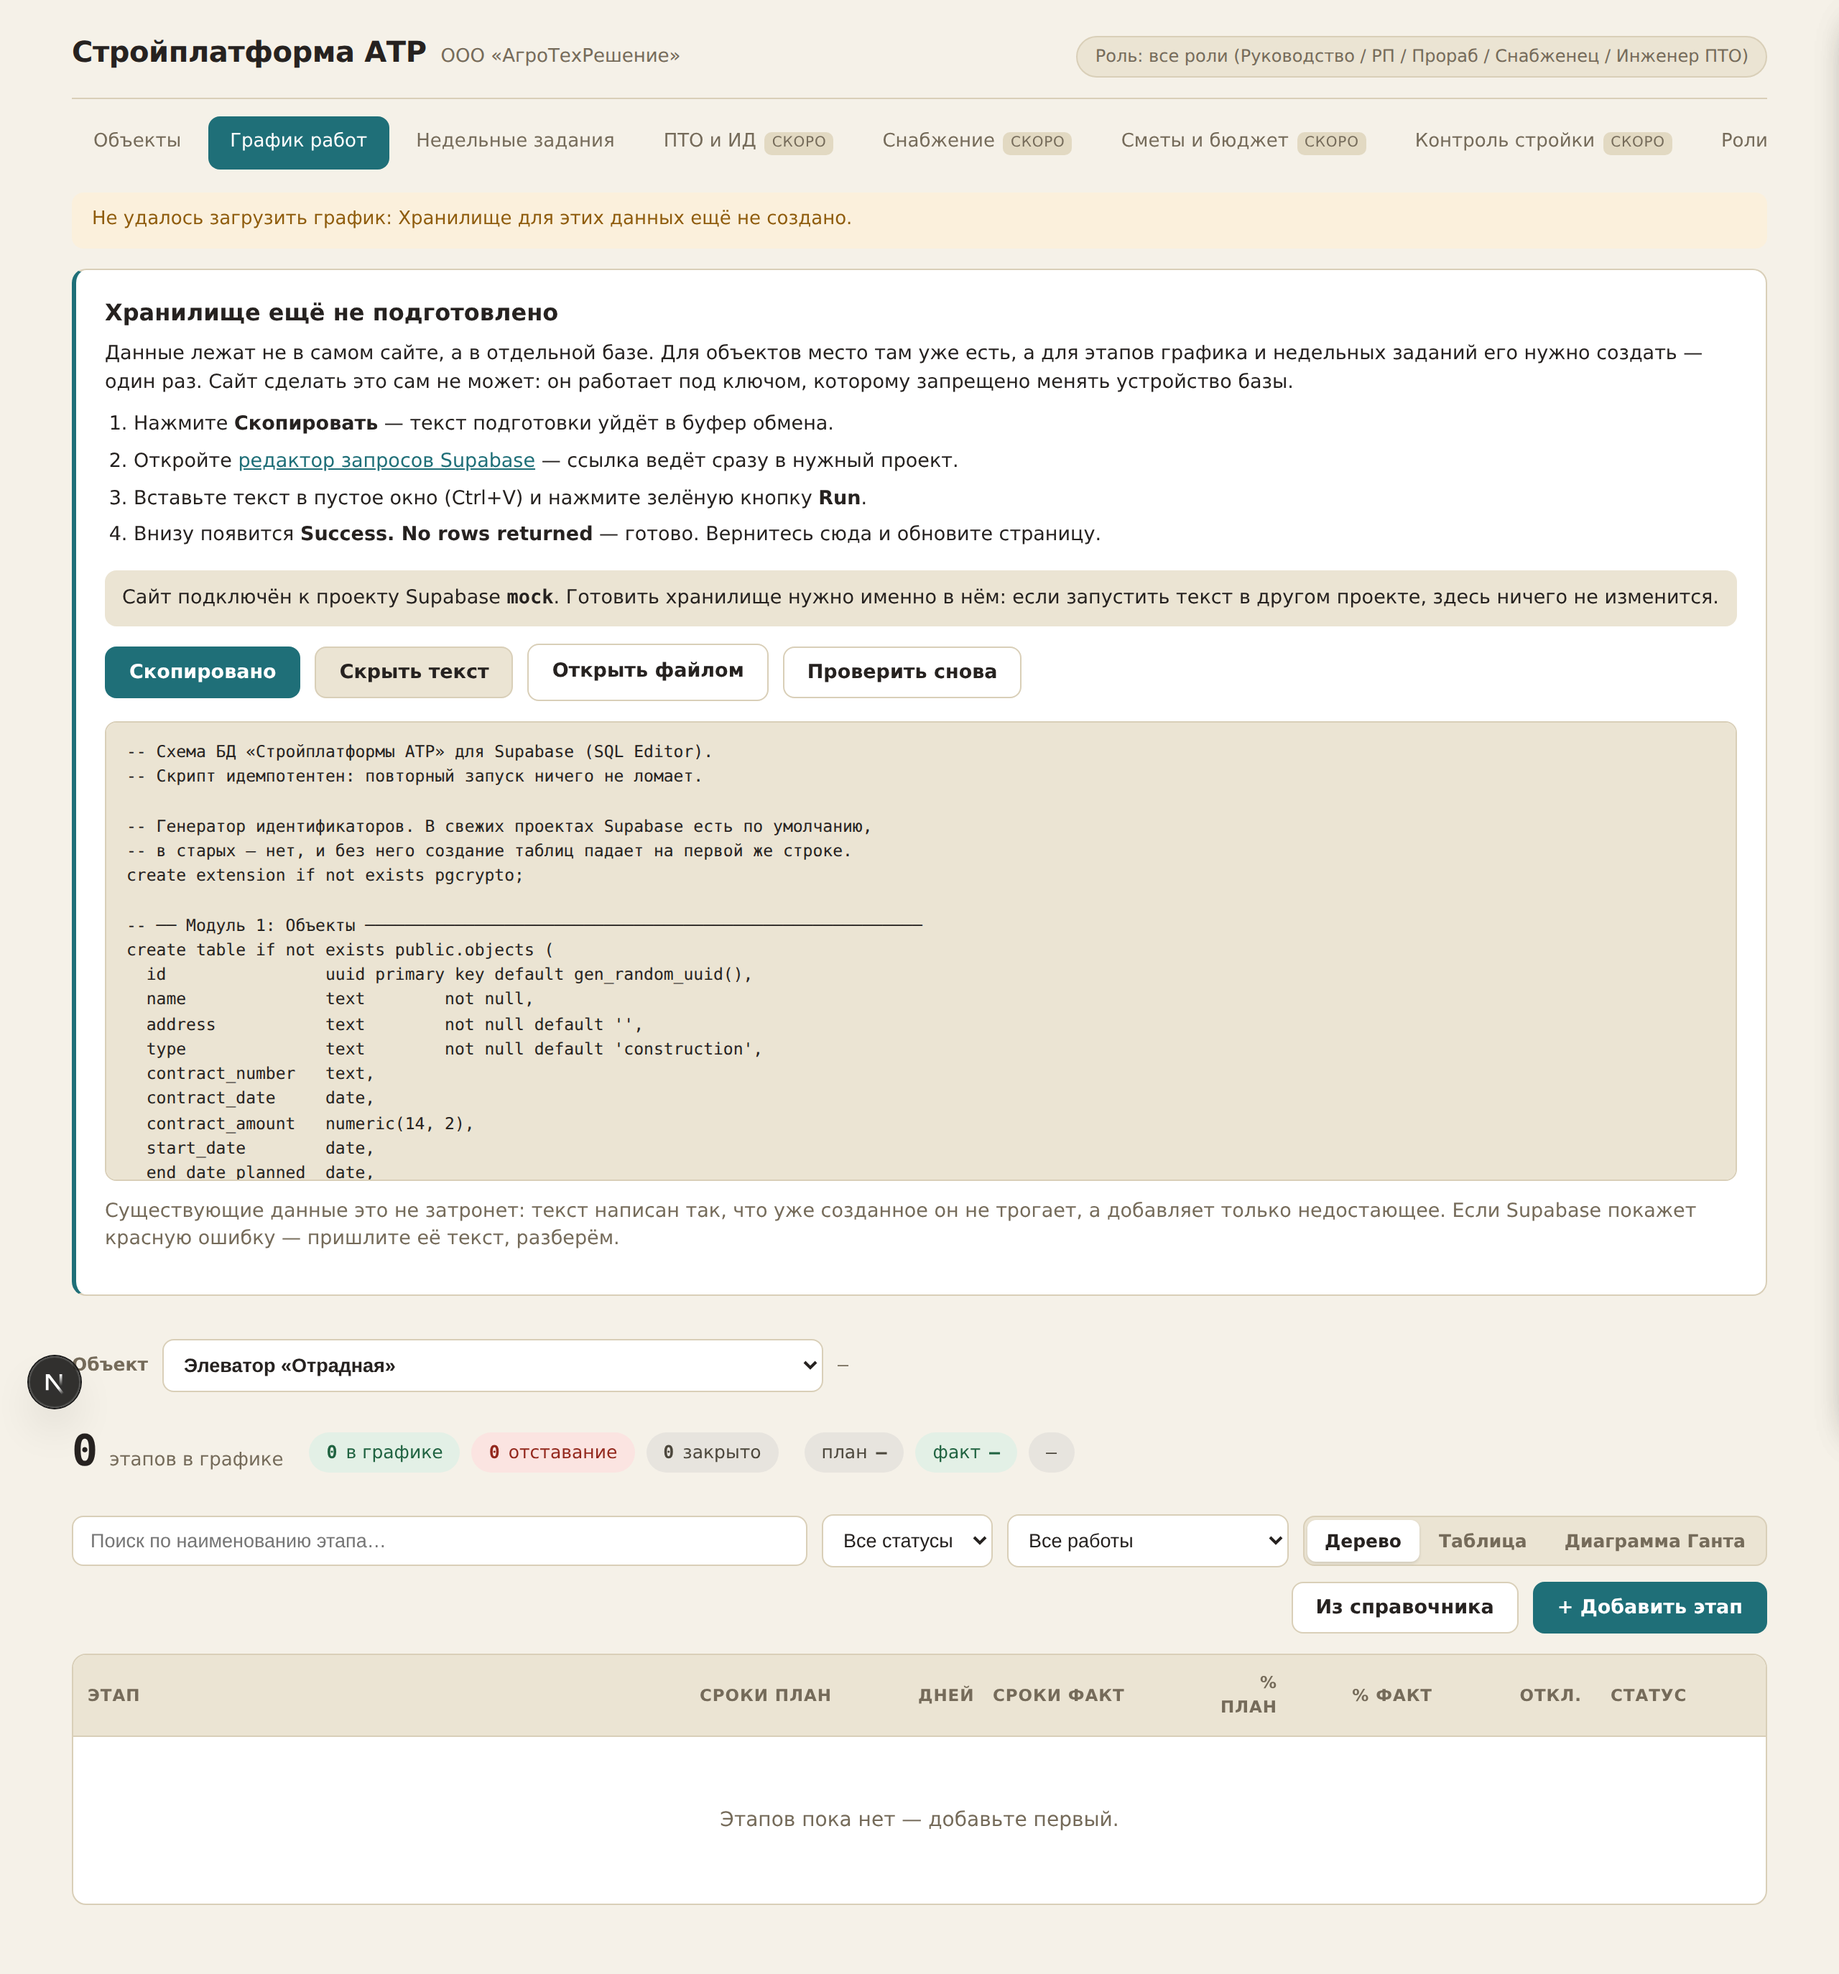
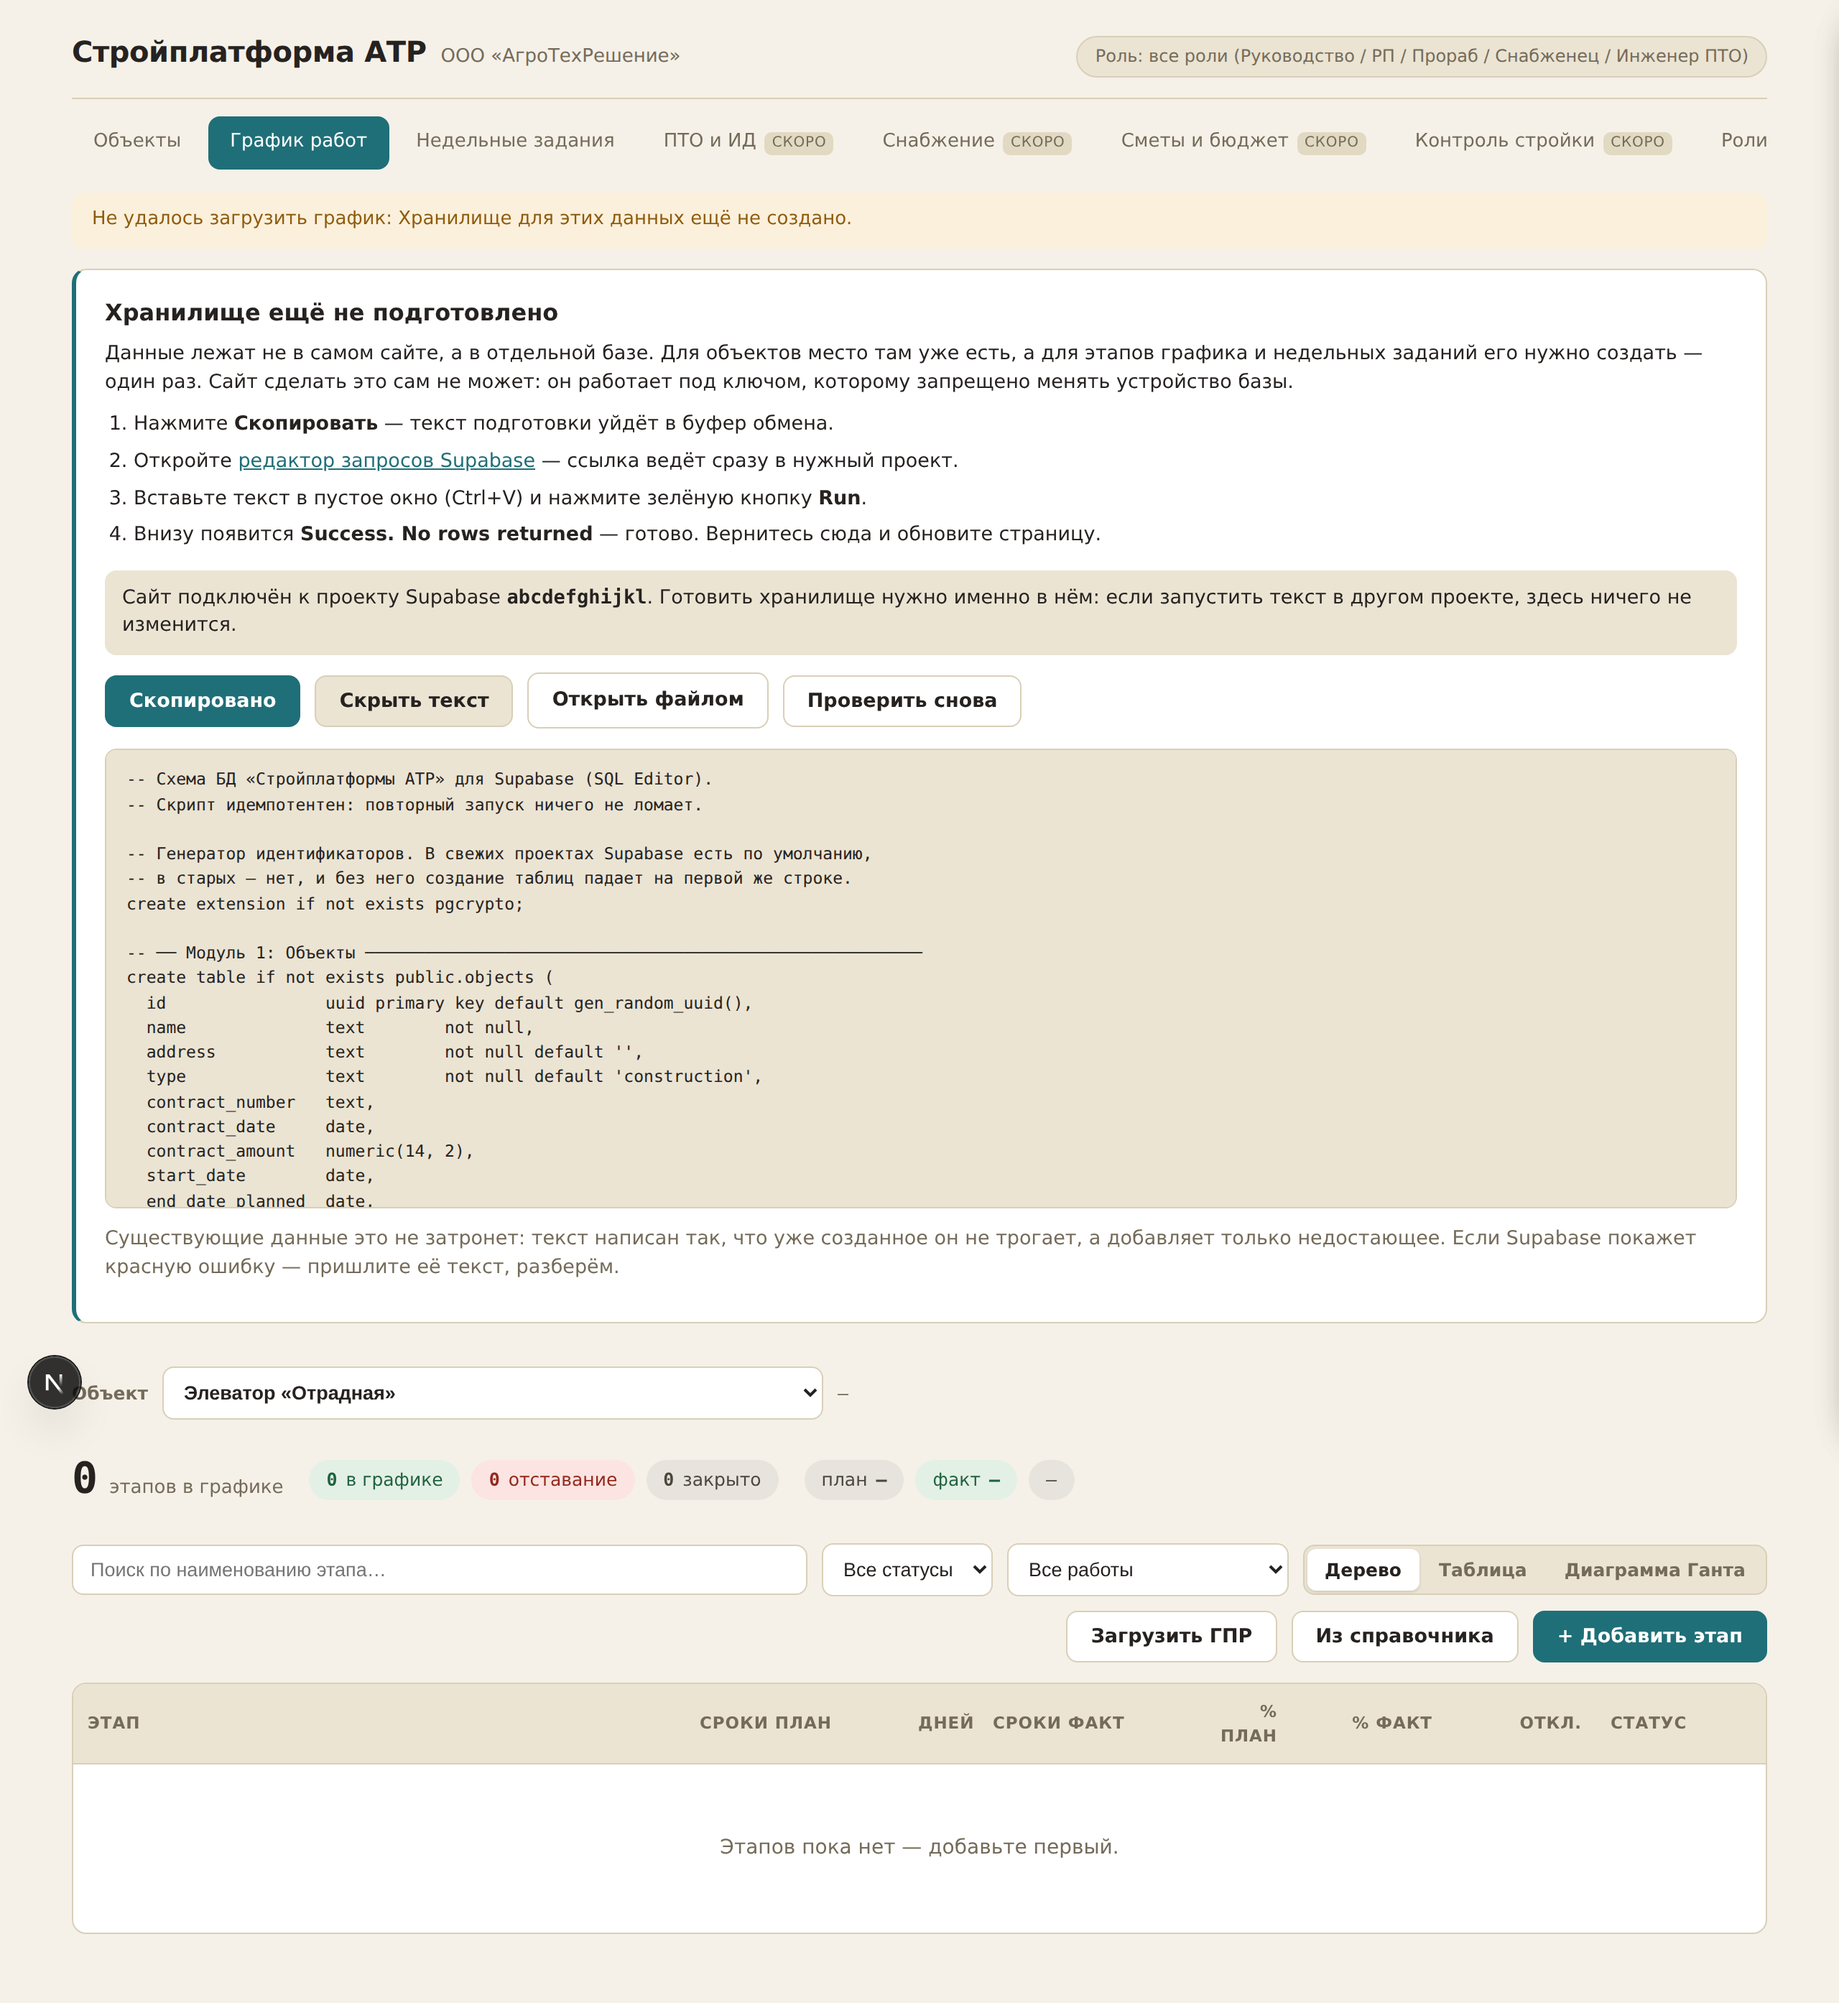
Называть недостающее поле и показывать подготовку хранилища
«Не хватает одного из полей» оставляло человека без понятия, какого
именно и что делать. Теперь сообщение называет поле — «не хватает поля
"code"» — и модуль сам разворачивает блок подготовки хранилища с
инструкцией и ссылкой в нужный проект Supabase.

Отдельно: флаг нехватки полей ставится после перечитывания данных.
Чтение могло пройти успешно и сбросить его, хотя запись только что упала.

Claude-Session: https://claude.ai/code/session_01BGXnSNUTes74jTfo9SQXsz

diff --git a/src/components/ScheduleImport.tsx b/src/components/ScheduleImport.tsx
@@ -2,7 +2,7 @@
 
 import { useMemo, useRef, useState } from "react";
 import { supabase } from "@/lib/supabaseClient";
-import { dbErrorText } from "@/lib/dbError";
+import { dbErrorText, needsSchemaSetup } from "@/lib/dbError";
 import { HistoryEntry, ScheduleTask } from "@/lib/types";
 import {
   buildImportPlan,
@@ -19,7 +19,8 @@ interface Props {
   objectName: string;
   tasks: ScheduleTask[];
   onClose: () => void;
-  onDone: (message: string) => void;
+  /** schemaMissing — база отстала от приложения, нужна подготовка хранилища. */
+  onDone: (message: string, schemaMissing?: boolean) => void;
 }
 
 /**
@@ -209,7 +210,7 @@ export default function ScheduleImport({ objectId, objectName, tasks, onClose, o
           .insert(payload)
           .select();
         if (insertError) {
-          onDone(dbErrorText(insertError, "Загрузка прервана"));
+          onDone(dbErrorText(insertError, "Загрузка прервана"), needsSchemaSetup(insertError));
           setBusy(false);
           return;
         }
@@ -244,7 +245,7 @@ export default function ScheduleImport({ objectId, objectName, tasks, onClose, o
           .update({ ...patch, history })
           .eq("id", r.existingId as string);
         if (updateError) {
-          onDone(dbErrorText(updateError, "Загрузка прервана"));
+          onDone(dbErrorText(updateError, "Загрузка прервана"), needsSchemaSetup(updateError));
           setBusy(false);
           return;
         }
@@ -257,7 +258,7 @@ export default function ScheduleImport({ objectId, objectName, tasks, onClose, o
       const ids = plan.missing.map((t) => t.id);
       const { error: deleteError } = await supabase.from("schedule_tasks").delete().in("id", ids);
       if (deleteError) {
-        onDone(dbErrorText(deleteError, "Этапы загружены, но лишние не удалились"));
+        onDone(dbErrorText(deleteError, "Этапы загружены, но лишние не удалились"), needsSchemaSetup(deleteError));
         setBusy(false);
         return;
       }

diff --git a/src/lib/dbError.ts b/src/lib/dbError.ts
@@ -45,11 +45,17 @@ export function dbErrorText(error: SupabaseLikeError | null | undefined, action:
   }
   // Колонка есть в приложении, но PostgREST её не видит — чаще всего устаревший кэш схемы.
   if (code === "PGRST204" || /could not find the .* column/i.test(msg)) {
-    return `${action}: хранилище отстало от приложения — не хватает одного из полей.`;
+    const field = /'([^']+)' column/i.exec(msg)?.[1];
+    return `${action}: хранилище отстало от приложения${
+      field ? ` — не хватает поля «${field}»` : ""
+    }. Подготовьте его заново, инструкция ниже.`;
   }
   // Таблица есть, но устарела — нет колонки, которую шлёт приложение.
   if (code === "42703" || /column .* does not exist/i.test(msg)) {
-    return `${action}: хранилище отстало от приложения — не хватает колонки.`;
+    const field = /column "?([\w.]+)"? does not exist/i.exec(msg)?.[1];
+    return `${action}: хранилище отстало от приложения${
+      field ? ` — не хватает поля «${field}»` : ""
+    }. Подготовьте его заново, инструкция ниже.`;
   }
   if (code === "23505") {
     if (/weekly_items_one_row_per_task/.test(msg) || /weekly_items_one_row_per_task/.test(error.details || "")) {

diff --git a/src/components/ScheduleModule.tsx b/src/components/ScheduleModule.tsx
@@ -1211,10 +1211,13 @@ export default function ScheduleModule() {
           objectName={currentObject?.name || "объект"}
           tasks={tasks}
           onClose={() => setImportOpen(false)}
-          onDone={async (message) => {
+          onDone={async (message, schemaGap) => {
             setBanner(message);
             setImportOpen(false);
+            // Сначала перечитываем, потом ставим флаг: чтение может пройти успешно
+            // и сбросить его, хотя запись только что упала из-за нехватки поля.
             await loadTasks(objectId);
+            if (schemaGap) setSchemaMissing(true);
           }}
         />
       )}
